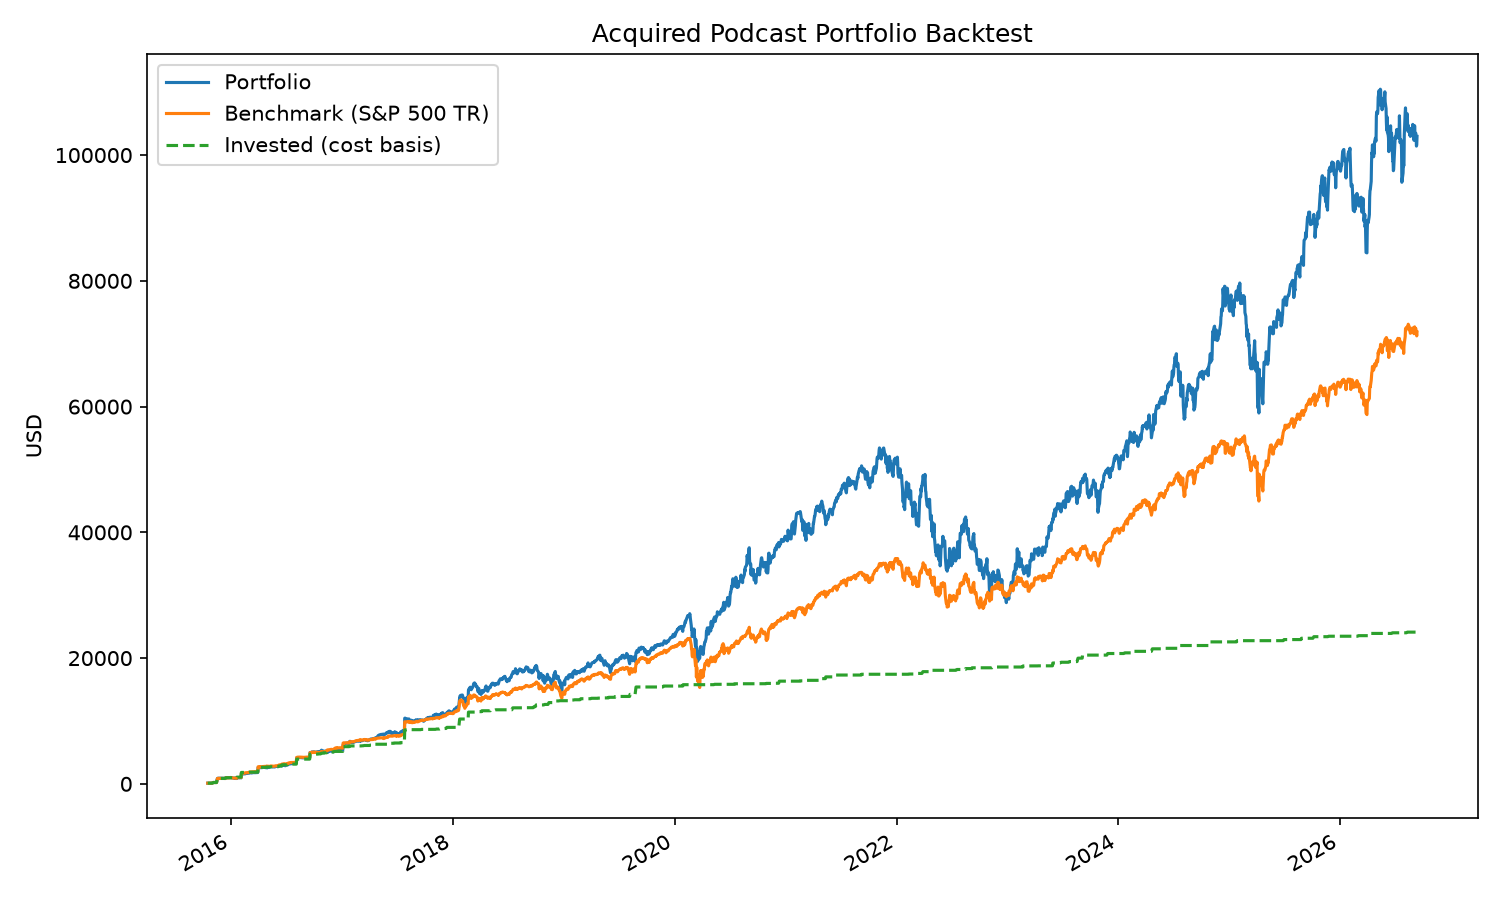
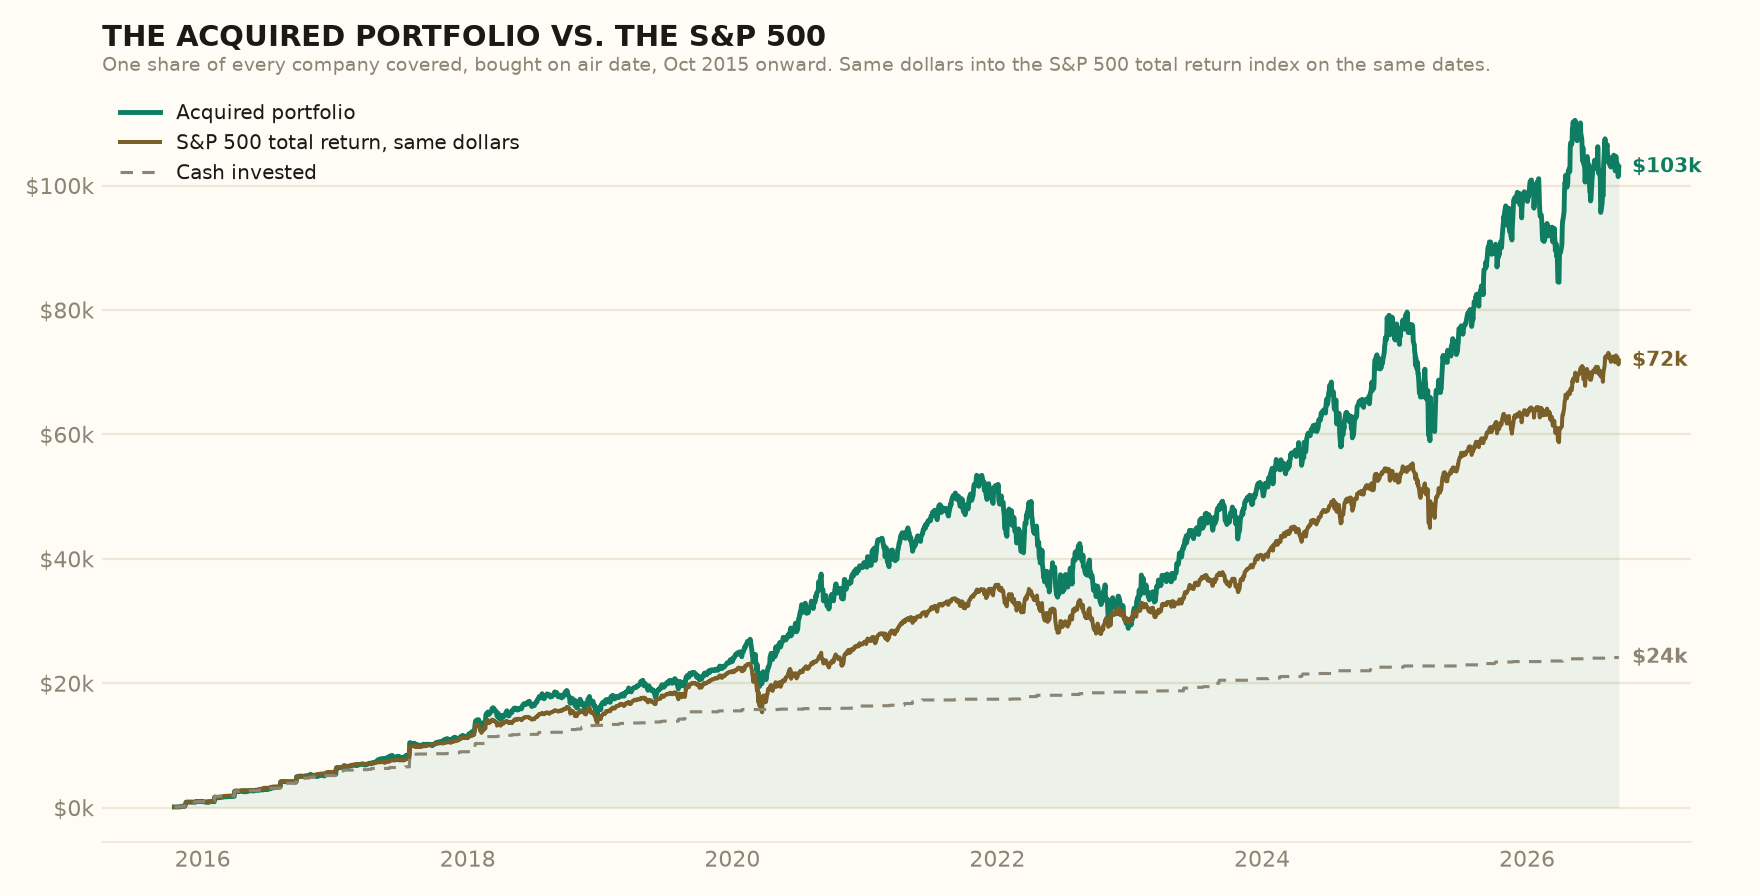
Public-friendly README with brand-styled chart; 11 Sep 2026 close

diff --git a/backtest.py b/backtest.py
@@ -329,21 +329,35 @@ def xirr(cashflows, terminal_date, terminal_value):
 
 
 def make_chart(timeseries, logy, path="chart.png"):
+    # ponytail: styled to match report.html (Acquired brand: cream, near-black, teal, gold)
     import matplotlib
     matplotlib.use("Agg")
     import matplotlib.pyplot as plt
-    fig, ax = plt.subplots(figsize=(10, 6))
-    ax.plot(timeseries.date, timeseries.portfolio_value, label="Portfolio")
-    ax.plot(timeseries.date, timeseries.benchmark_value, label="Benchmark (S&P 500 TR)")
-    ax.plot(timeseries.date, timeseries.invested, label="Invested (cost basis)", linestyle="--")
+    from matplotlib.ticker import FuncFormatter
+    BG, INK, MUTED, TEAL, GOLD, GRID = "#fffcf5", "#1b1915", "#8c8574", "#0e7d61", "#7a5f28", "#efe8d6"
+    fig, ax = plt.subplots(figsize=(11, 5.6), facecolor=BG)
+    ax.set_facecolor(BG)
+    t = timeseries
+    ax.fill_between(t.date, t.portfolio_value, color=TEAL, alpha=0.08, linewidth=0)
+    ax.plot(t.date, t.portfolio_value, color=TEAL, lw=2.2, label="Acquired portfolio")
+    ax.plot(t.date, t.benchmark_value, color=GOLD, lw=1.8, label="S&P 500 total return, same dollars")
+    ax.plot(t.date, t.invested, color=MUTED, lw=1.4, ls=(0, (4, 3)), label="Cash invested")
+    for col, color in (("portfolio_value", TEAL), ("benchmark_value", GOLD), ("invested", MUTED)):
+        ax.annotate(f"${t[col].iloc[-1]/1000:,.0f}k", (t.date.iloc[-1], t[col].iloc[-1]),
+                    xytext=(6, 0), textcoords="offset points", va="center", color=color, fontsize=9, fontweight="bold")
     if logy:
         ax.set_yscale("log")
-    ax.set_ylabel("USD")
-    ax.set_title("Acquired Podcast Portfolio Backtest")
-    ax.legend()
-    fig.autofmt_xdate()
+    ax.yaxis.set_major_formatter(FuncFormatter(lambda v, _: f"${v/1000:,.0f}k"))
+    ax.grid(axis="y", color=GRID, lw=1); ax.set_axisbelow(True)
+    for sp in ("top", "right", "left"): ax.spines[sp].set_visible(False)
+    ax.spines["bottom"].set_color(GRID); ax.tick_params(colors=MUTED, length=0)
+    ax.set_title("THE ACQUIRED PORTFOLIO VS. THE S&P 500", loc="left", color=INK, fontsize=13, fontweight="bold", pad=18)
+    ax.text(0, 1.02, "One share of every company covered, bought on air date, Oct 2015 onward. "
+            "Same dollars into the S&P 500 total return index on the same dates.",
+            transform=ax.transAxes, color=MUTED, fontsize=8.5)
+    leg = ax.legend(loc="upper left", frameon=False, fontsize=9, labelcolor=INK)
     fig.tight_layout()
-    fig.savefig(path, dpi=150)
+    fig.savefig(path, dpi=160, facecolor=BG)
 
 
 def main():

diff --git a/README.md b/README.md
@@ -1,34 +1,83 @@
 # Acquired Portfolio Sim
 
-Every episode of the [Acquired](https://www.acquired.fm) podcast opens with "this is not investment advice." What if it were?
+Every episode of the [Acquired](https://www.acquired.fm) podcast opens with the same line: "this is not investment advice."
 
-This backtest buys **one share** of every publicly traded company covered on Acquired's main feed, at the close on the day the episode aired, from October 2015 onward, and compares it with the same dollars invested in the S&P 500 total return index on the same dates.
+What if it were?
 
-**Interactive report:** https://claude.ai/code/artifact/d36bbe9e-bbc7-4918-b4c8-37a264c92934
+This project answers a simple question. If you had bought one share of every publicly traded company Acquired has ever covered, on the day that episode came out, what would you have today?
 
-## Headline (as of 2026-09-11 close)
+![Portfolio vs S&P 500](chart.png)
 
-| | Acquired portfolio | S&P 500 TR, same dollars |
+## The answer
+
+| | Acquired portfolio | S&P 500, same dollars, same dates |
 |---|---|---|
-| Invested | $24,130 | $24,130 |
-| Value | $102,977 | $71,860 |
+| Total put in | $24,130 | $24,130 |
+| Worth today | $102,977 | $71,860 |
 | Multiple | 4.27x | 2.98x |
-| XIRR | 20.5% | 15.4% |
+| Annual return | 20.5% | 15.4% |
 
-114 episodes bought, 55 skipped as private or not about a company.
+As of the 11 September 2026 close. The annual return is money-weighted, meaning it accounts for the fact that cash went in gradually over eleven years rather than all at once.
 
-## Files
+Of 169 main-feed episodes, 114 produced a purchase. The other 55 were about private companies like SpaceX, Stripe, and Epic Games, or were not about a company at all.
 
-- `rules.md` — every methodology decision, numbered (36 so far). Start here.
-- `episodes.csv` — one row per main-feed episode: subject, ticker, parent, status, source note.
-- `events.csv` — corporate actions on held positions (takeouts, divestitures).
-- `manual_prices.csv` — hand-researched closes for delisted tickers Yahoo no longer serves.
-- `backtest.py` — pulls prices via yfinance, runs the simulation, writes `results.csv`, `timeseries.csv`, `summary.json`, `chart.png`. Has a `--selftest`.
-- `build_report.py` — fills `report.html` from the outputs.
-- `review/` — adversarial review notes and an independent recomputation.
-- `batches/` — raw research output per 25-episode batch, kept as an audit trail.
+**Explore the full interactive report, with every episode and a sortable table:**
+https://claude.ai/code/artifact/d36bbe9e-bbc7-4918-b4c8-37a264c92934
 
-## Run it
+## Where the money came from
+
+One share means one share. That makes the result lopsided toward whatever was expensive on the day it aired.
+
+**The big winners**
+
+| Episode | Bought | Cost | Worth today |
+|---|---|---|---|
+| YouTube (Alphabet) | Feb 2016 | $749 | $6,834 |
+| Google Docs (Alphabet) | Mar 2016 | $766 | $6,834 |
+| Android (Alphabet) | Sep 2016 | $798 | $6,834 |
+| Waze (Alphabet) | Aug 2016 | $799 | $6,834 |
+| Tesla | Jul 2018 | $310 | $5,482 |
+| Twitch (Amazon) | Nov 2015 | $648 | $5,136 |
+
+Six pre-split Alphabet episodes from 2016 to 2019 account for roughly $35,000 of the $79,000 total gain. Apple's six early episodes each grew more than tenfold. Nvidia's three-part series bought in at $214 to $485 a share, and each of those shares is now worth about $2,300.
+
+**The big losers**
+
+| Episode | Bought | Cost | Worth today |
+|---|---|---|---|
+| Hermès | Feb 2024 | $240 | $167 |
+| Nike | Jul 2023 | $109 | $40 |
+| LVMH | Feb 2023 | $171 | $103 |
+| Meituan | Mar 2021 | $81 | $19 |
+| Porsche | Jun 2023 | $119 | $58 |
+| Novo Nordisk | Jan 2024 | $105 | $47 |
+
+The 2023 to 2024 run of luxury and consumer episodes has not gone well. Virgin Galactic lost 99 percent. Peloton lost 86 percent.
+
+## How the simulation works
+
+The rules were written down before any numbers were run, and every judgment call since has been logged. The full list is in [rules.md](rules.md). The short version:
+
+- **Main feed only.** No interviews, specials, or live shows.
+- **One share, bought at the close on the air date.** If an episode aired on a weekend, the share was bought at the next close.
+- **Multi-part series buy again.** Nvidia Parts I, II, and III are three purchases.
+- **If the subject had already been acquired, buy the acquirer.** Instagram means Meta. Pixar means Disney. Skype means Microsoft. If the acquirer later sold that business, the share is sold that day.
+- **Private companies are skipped** but counted, because they are part of the story.
+- **Dividends are reinvested.** Cash from buyouts sits at zero interest. Stock deals convert at the exchange ratio.
+- **The benchmark is fair.** The same dollars go into the S&P 500 total return index on the same dates, so a slow drip of purchases is compared against a slow drip of index buys.
+
+## How much to trust it
+
+More than a back-of-envelope, less than an audited fund report.
+
+- The episode list, ticker mapping, and corporate actions were researched by AI agents and then independently checked by a second adversarial pass. That review re-verified every merger and spin-off, reproduced the benchmark and return figures from scratch, and caught one real bug in cost basis that has since been fixed. Its notes are in the [review](review/) folder.
+- Nine companies were later taken private or delisted, and free price data for them no longer exists. Their prices were hand-researched at a few points and interpolated between them. They are flagged in the results.
+- No taxes, trading fees, or interest on idle cash are modeled.
+- The Sony position ignores a small spin-off. A few other rounding-level simplifications are listed in the rules.
+
+## Run it yourself
+
+Everything is reproducible from public data. Corrections belong in the CSV files, not the script.
 
 ```bash
 python3 -m venv .venv && .venv/bin/pip install pandas yfinance matplotlib
@@ -37,8 +86,19 @@ python3 -m venv .venv && .venv/bin/pip install pandas yfinance matplotlib
 .venv/bin/python build_report.py
 ```
 
-Corrections go in the CSVs, never the script.
+| File | What it is |
+|---|---|
+| `rules.md` | Every methodology decision, numbered. Start here. |
+| `episodes.csv` | One row per episode: subject, ticker, parent company, status, source. |
+| `events.csv` | Buyouts and divestitures that happened after purchase. |
+| `manual_prices.csv` | Hand-researched prices for delisted companies. |
+| `backtest.py` | Pulls prices, runs the simulation, writes the results and chart. |
+| `build_report.py` | Fills the interactive HTML report from the results. |
+| `results.csv` | The per-episode outcome table. |
+| `review/` | The adversarial review and an independent recomputation. |
 
-## Caveats
+## The fine print
 
-Nine delisted tickers use sparse hand-researched prices. Cash from buyouts earns nothing. No taxes or fees. One share means results are dominated by whatever was expensive on air date, mostly pre-split Alphabet and Amazon. Unofficial fan project, not affiliated with Acquired. Not investment advice.
+This is an unofficial fan project. It is not affiliated with, endorsed by, or connected to Acquired, Ben Gilbert, or David Rosenthal.
+
+It is a backtest of a joke. Buying one share of everything a podcast talks about is not a strategy, and past performance says nothing about the future. This is not investment advice.
